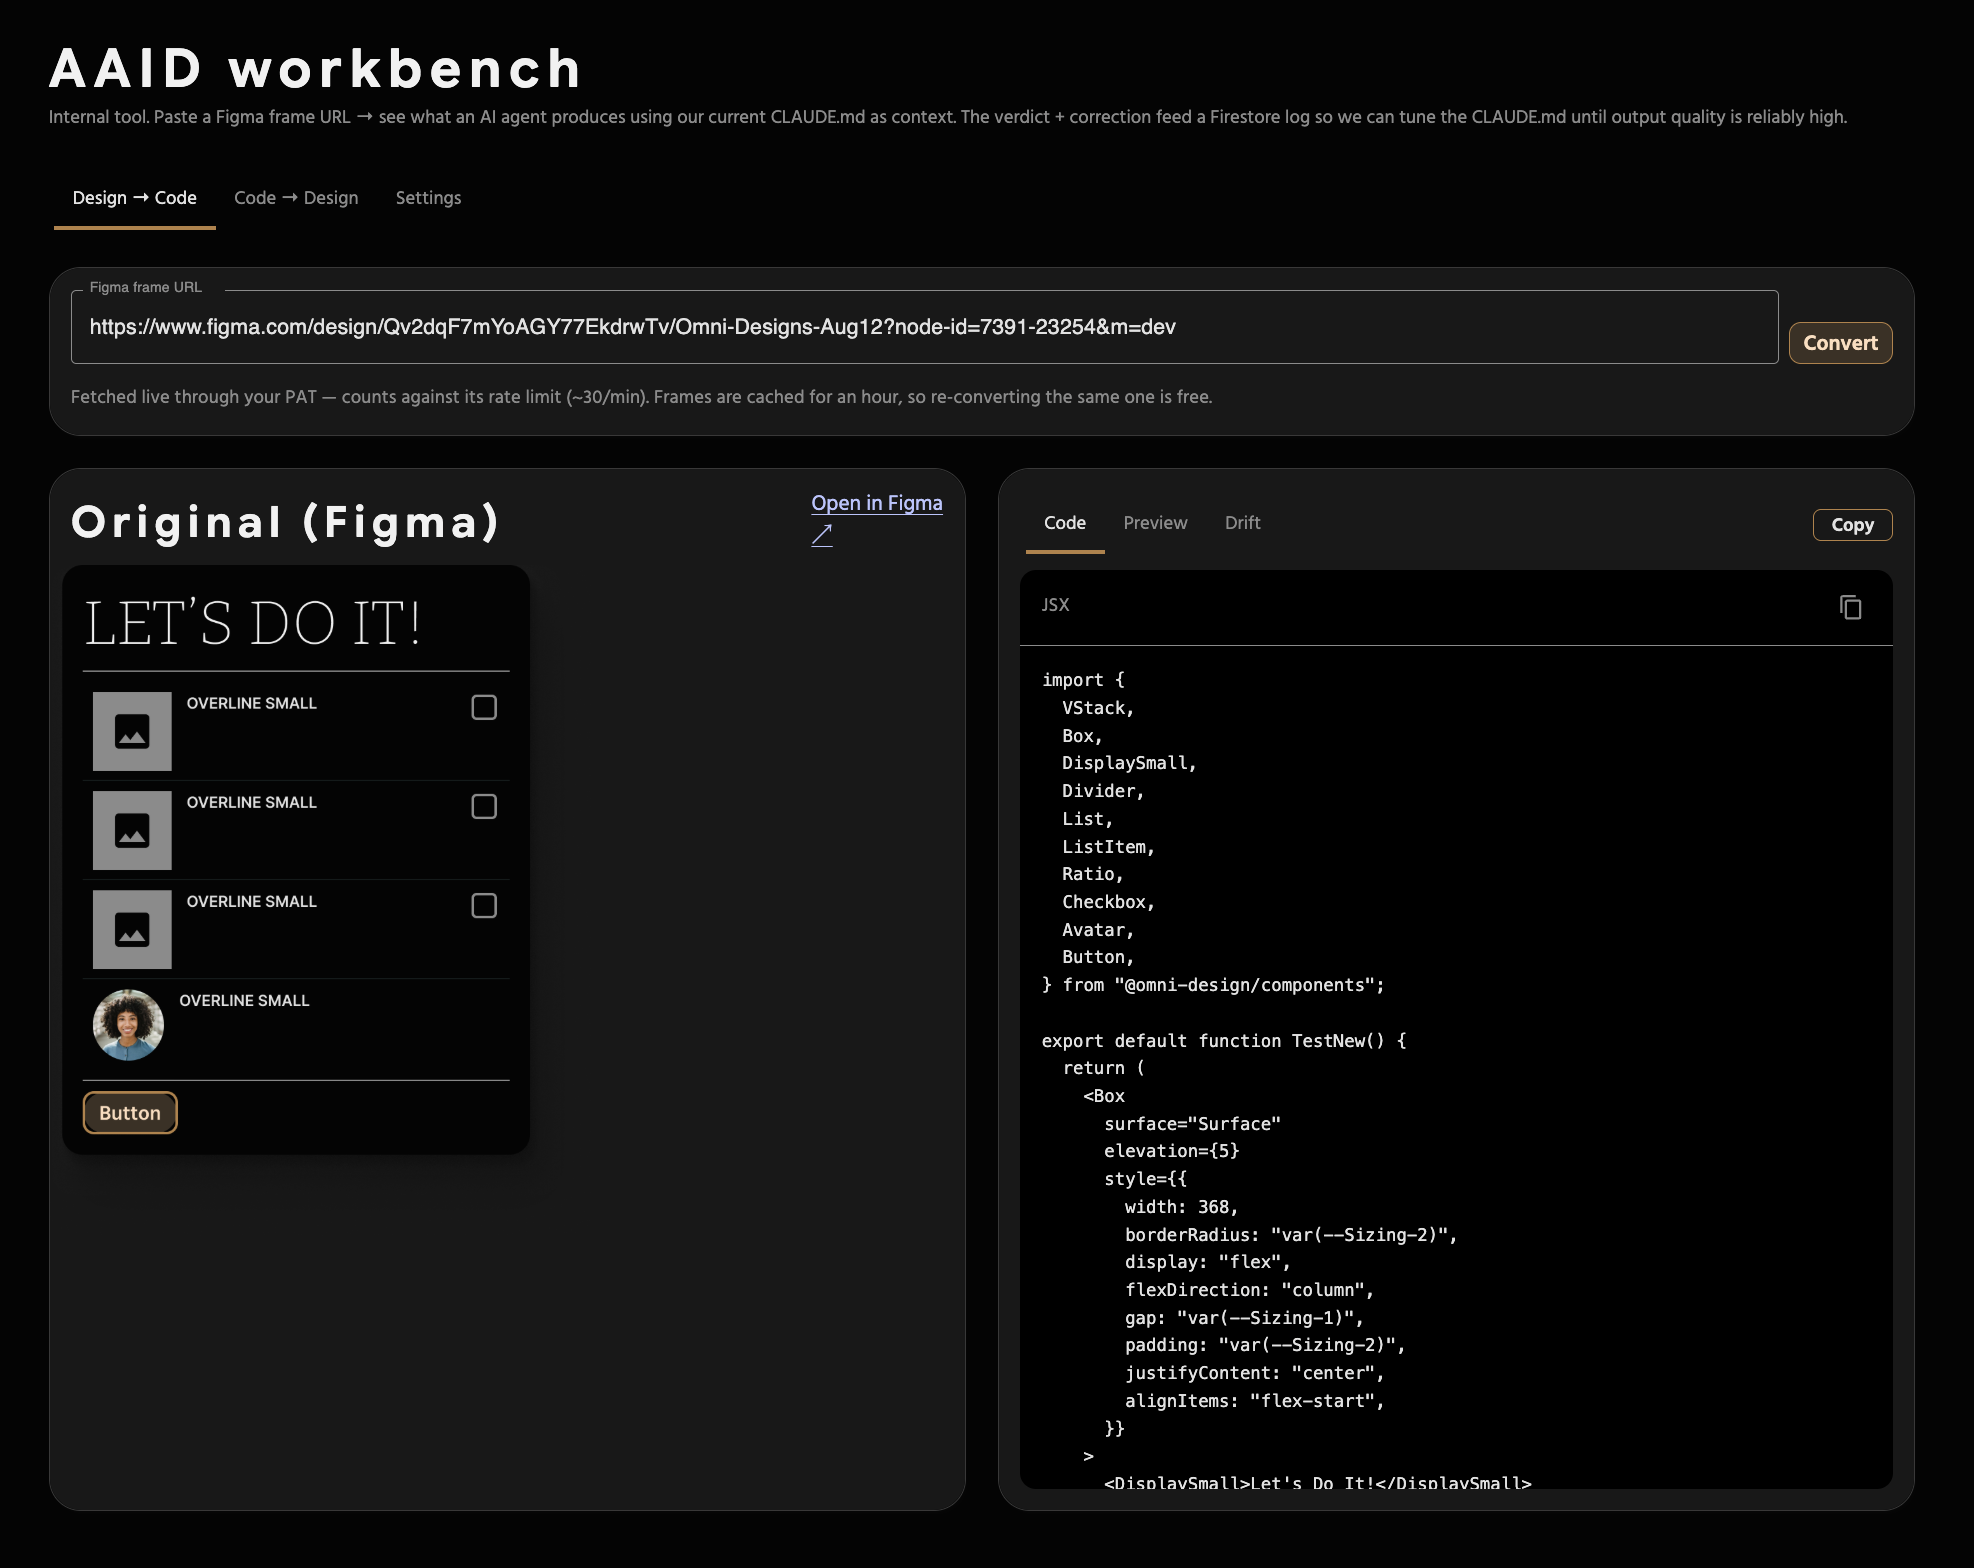
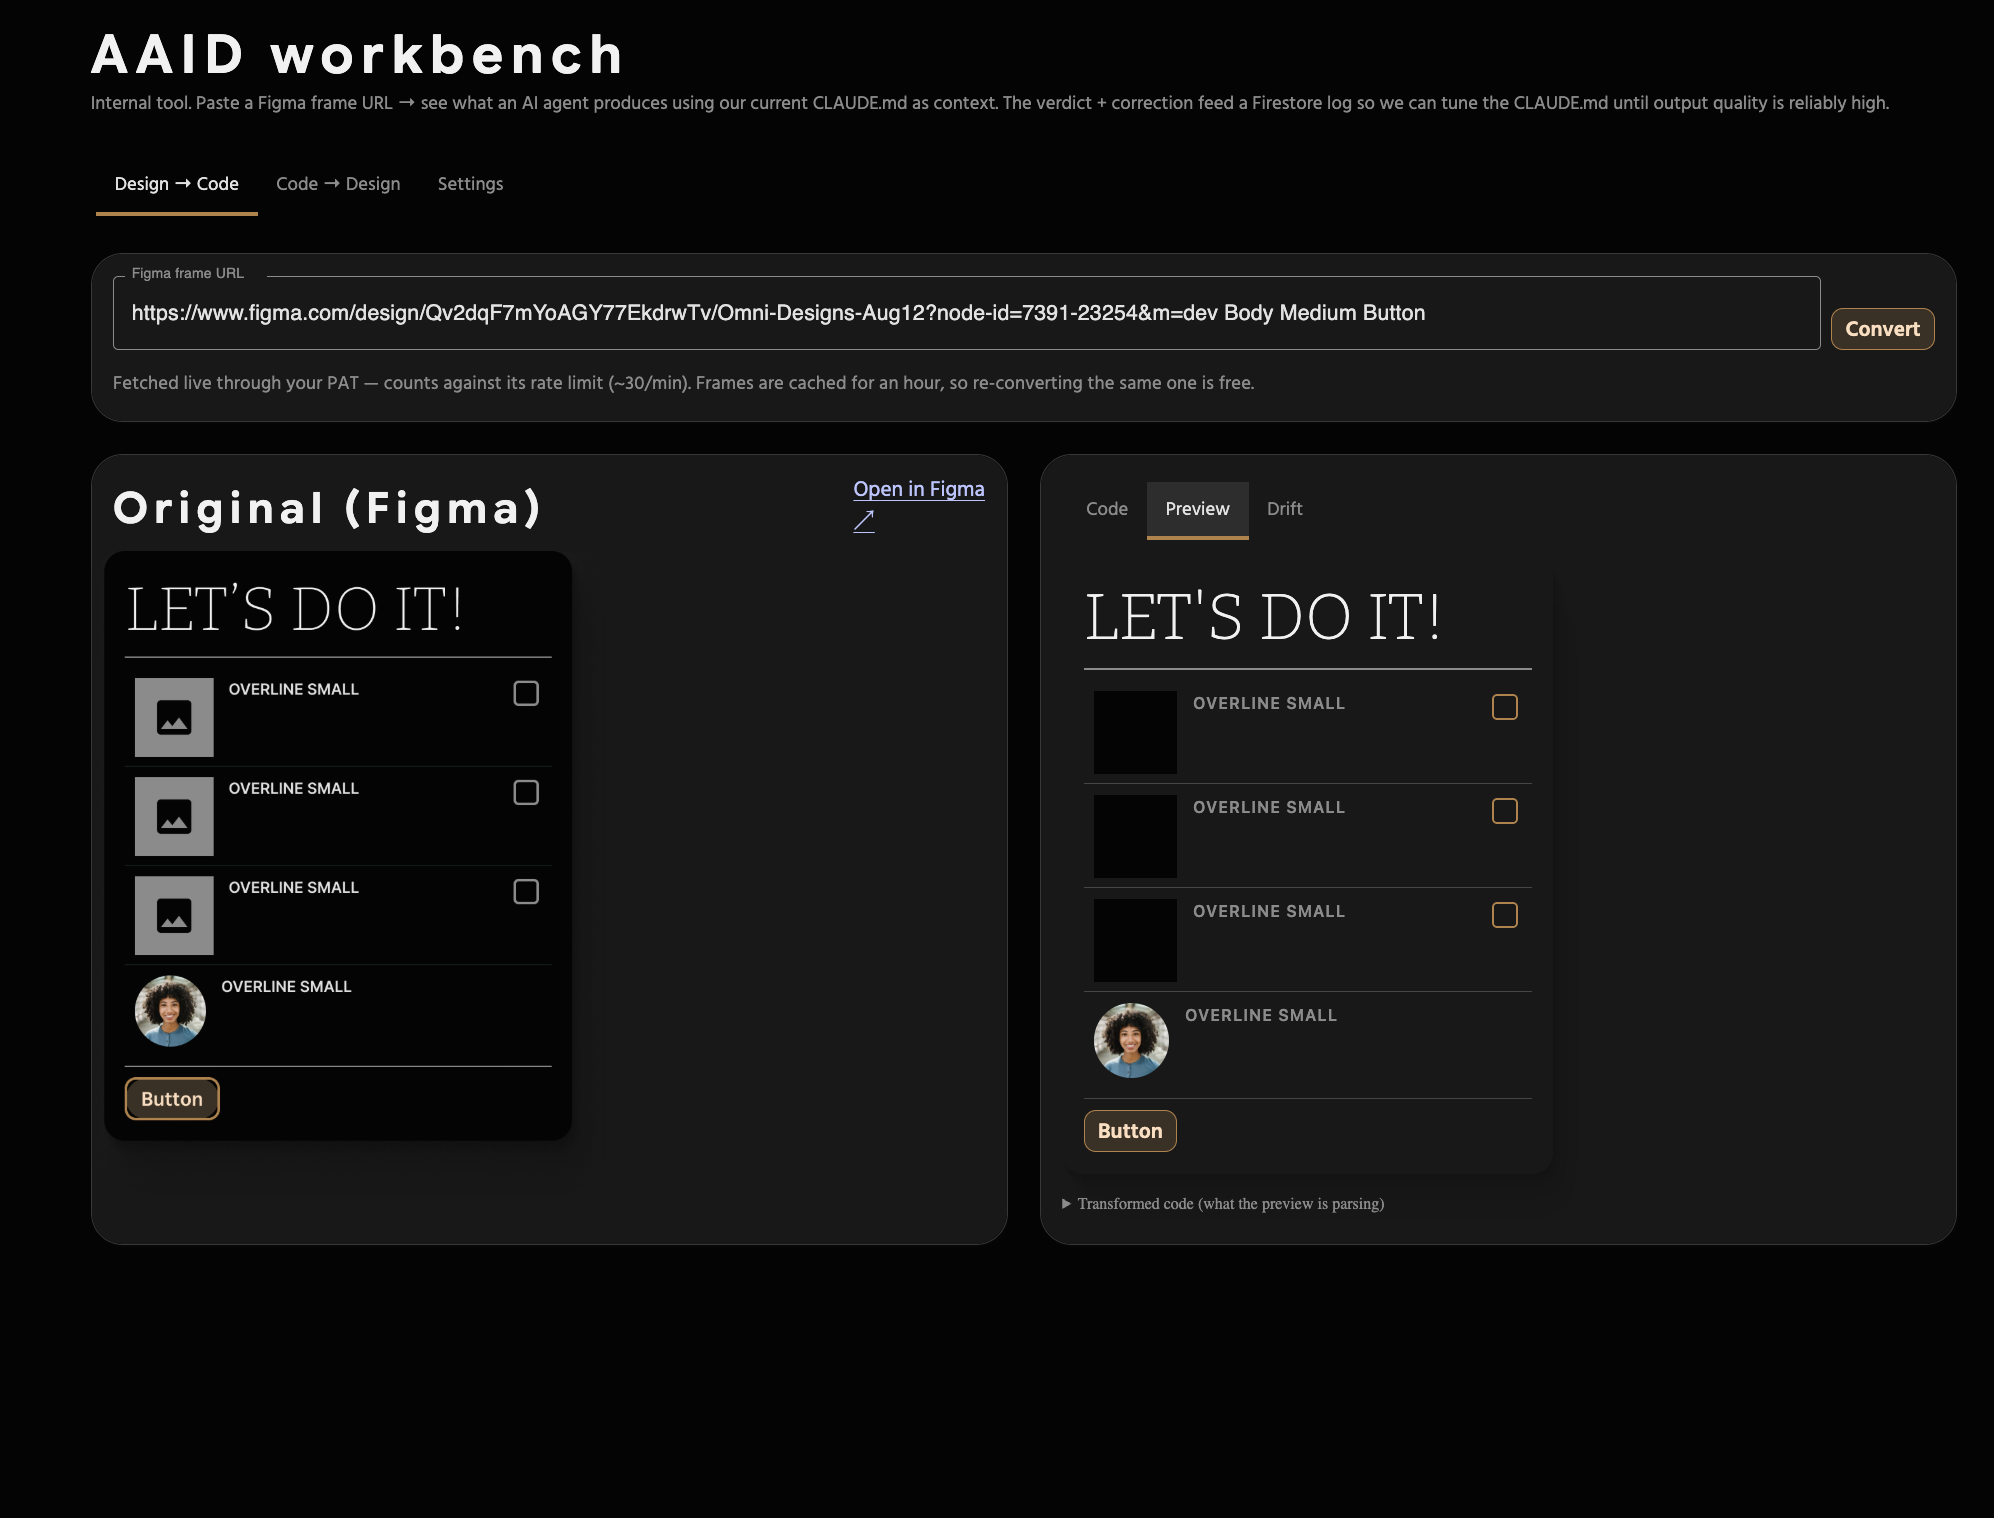
Guide: refresh the workbench screenshots
Code, Preview and Drift retaken now that the panes are tabs and drift findings
name their component.

The Drift section gains what the new screenshot shows: each finding says which
component it came from and where it sits — "List: variant Orientation…", "in
List Slot > List Item". Without that, "Orientation = Vertical" is unactionable
in a frame with four Dividers.

And the point the screenshot makes by accident: "Orientation = Vertica" is not a
conversion bug. The List component's variant is misspelled in the Figma library,
and the drift report is where it surfaced.

diff --git a/docs/workbench-guide.md b/docs/workbench-guide.md
@@ -146,6 +146,14 @@ that render as something entirely plausible:
 | **Text missing** | Copy in the frame that never made it into the code. |
 | **Instance unmapped** | A Figma component instance with no counterpart in the output. |
 
+Each finding names the component it came from and where it sits — *"List:
+variant Orientation…"*, *"in List Slot > List Item"*. That matters more than it
+sounds: `Orientation = Vertical` is unactionable in a frame with four Dividers.
+
+It also catches things in the design itself. The `Orientation = Vertica` above is
+not a conversion bug — the List component's variant is misspelled in Figma, and
+the report is the first place anyone noticed.
+
 The count on the tab is **errors only**. Warnings and "to check" are frequently
 legitimate — text is often bound to a prop rather than inlined, and a designer's
 layer name need not survive into code — so a badge counting those would never be
